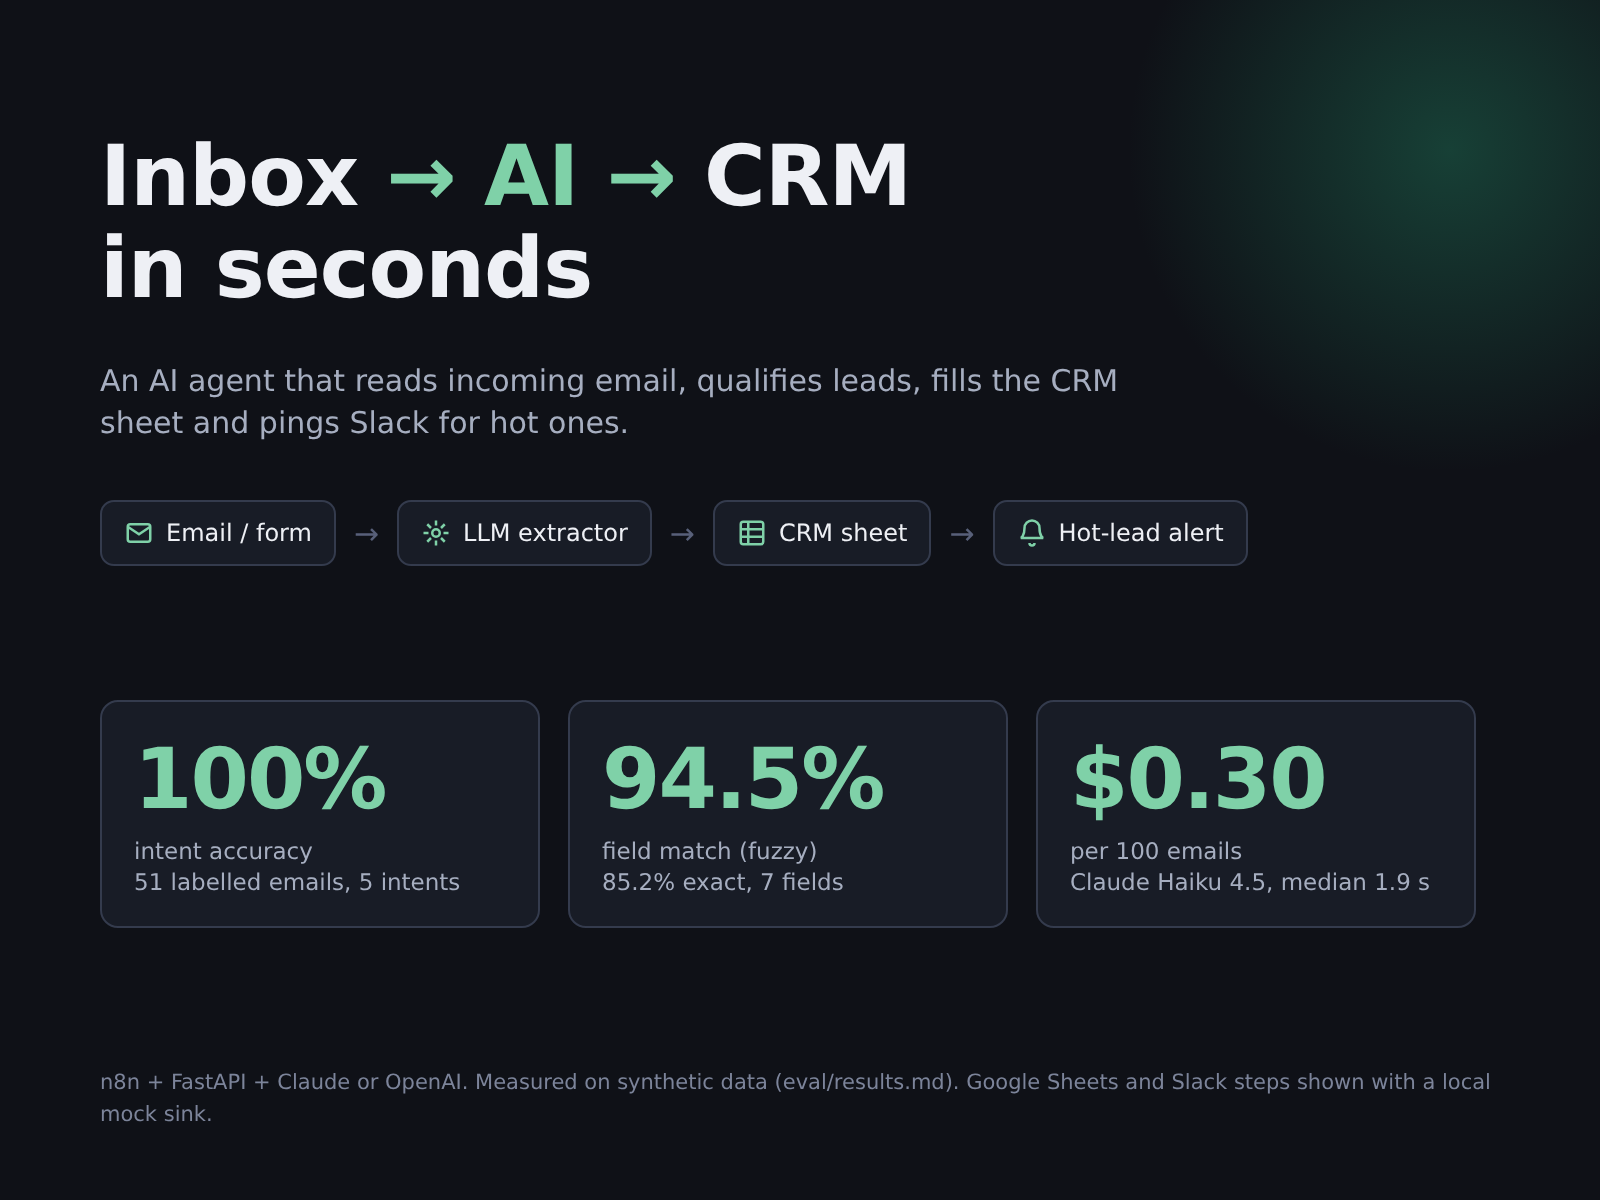
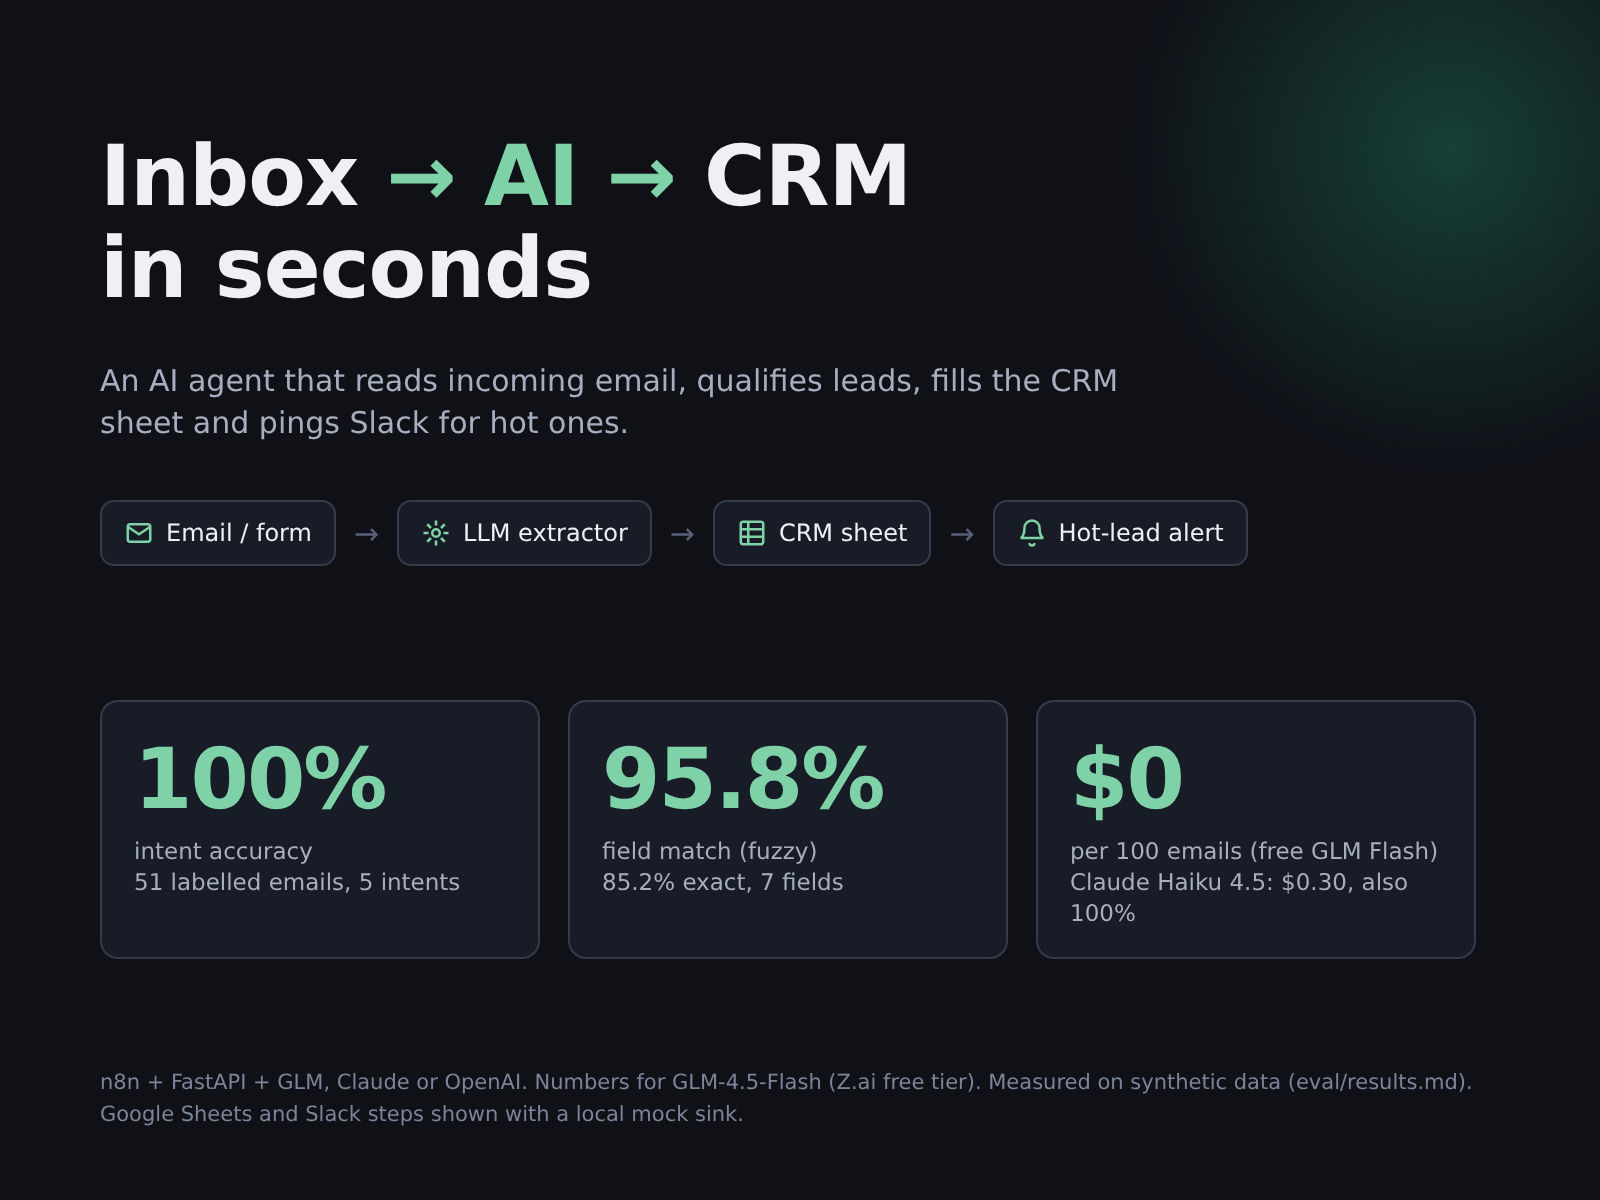
lead with free glm results in readme, cover and portfolio

diff --git a/README.md b/README.md
@@ -4,7 +4,7 @@ An AI agent that reads your inbox, qualifies leads and updates your CRM automati
 
 ![demo](assets/demo.gif)
 
-*The demo above was recorded against a **local mock sink** (a small service that stands in for Google Sheets and Slack, because no Google or Slack account was used). n8n, the extractor and the LLM calls are real. See [What was and was not run](#what-was-and-was-not-run).*
+*The demo above was recorded against a **local mock sink** (a small service that stands in for Google Sheets and Slack, because no Google or Slack account was used). n8n, the extractor and the LLM calls are real (the demo was recorded with Claude Haiku via OpenRouter, before the default switched to GLM). See [What was and was not run](#what-was-and-was-not-run).*
 
 ## The problem
 
@@ -26,19 +26,23 @@ The canvas above is the real exported workflow imported into n8n 1.123.0. The wa
 
 ## Results
 
-Measured by `eval/run_eval.py` on 51 labelled synthetic emails (`eval/labels.csv`), through the OpenRouter provider, temperature 0. Full tables and definitions: [`eval/results.md`](eval/results.md).
+Measured by `eval/run_eval.py` on 51 labelled synthetic emails (`eval/labels.csv`), temperature 0. The default model is Z.ai's free `glm-4.5-flash`. The Claude and OpenAI rows were measured the day before through OpenRouter and were not re-run. Full tables and definitions: [`eval/results.md`](eval/results.md).
 
-| Metric | `anthropic/claude-haiku-4.5` (default) | `openai/gpt-4o-mini` |
-|---|---|---|
-| Intent accuracy | 100.0% (51/51) | 98.0% (50/51) |
-| Field match, exact / fuzzy (237 labelled fields) | 85.2% / 94.5% | 83.5% / 91.6% |
-| Routed to human review | 3.9% (2 of 51) | 0.0% |
-| Median latency per email | 1.91 s | 2.43 s |
-| Cost per 100 emails | $0.296 | $0.017 |
+| Metric | `glm-4.5-flash` (default, Z.ai) | `claude-haiku-4.5` (OpenRouter) | `gpt-4o-mini` (OpenRouter) |
+|---|---|---|---|
+| Intent accuracy | 100.0% (51/51) | 100.0% (51/51) | 98.0% (50/51) |
+| Field match, exact / fuzzy (237 labelled fields) | 85.2% / 95.8% | 85.2% / 94.5% | 83.5% / 91.6% |
+| Fields filled where the label is empty (of 120) | 17 | 5 | 7 |
+| Hot-lead alerts correct (of 10) | 8 | 10 | 10 |
+| Routed to human review | 2.0% (1 of 51) | 3.9% (2 of 51) | 0.0% |
+| Median / p95 latency per email | 4.87 s / 32.87 s | 1.91 s / 2.73 s | 2.43 s / 3.07 s |
+| Cost per 100 emails | $0.00 (free tier) | $0.296 | $0.017 |
 
-Caveats, stated plainly: 51 emails is a small set (one email moves a percentage by about 2 points), the emails are synthetic and written by the same author as the labels, and latency was measured sequentially from a shared container over a proxy, so treat it as indicative. Cost is real token counts from the API times OpenRouter's listed prices. Urgency (a subjective 1-5 call) matches exactly 74.5% of the time for Haiku and is within one point 96.1% of the time; see `eval/results.md`.
+What the table says: the free GLM model matches Claude Haiku on intent and field match, but it fills in more fields that the email does not state (17 vs 5), scores urgency lower (52.9% exact vs 74.5%, so it caught 8 of 10 hot leads), and the shared free tier is slower: 7 of its calls hit rate limits ("overloaded") and waited for a retry, which is where the 33 s p95 comes from. Z.ai lists `glm-4.5-flash` as free on its [pricing page](https://docs.z.ai/guides/overview/pricing); token counts are still recorded in `eval/results.md`. If missed hot leads cost more than $0.30 per 100 emails, switch to Haiku with one env var.
 
-Reproduce: `python eval/run_eval.py --model anthropic/claude-haiku-4.5 --model openai/gpt-4o-mini` (needs `OPENROUTER_API_KEY`; results are cached in `eval/cache/`).
+Caveats, stated plainly: 51 emails is a small set (one email moves a percentage by about 2 points), the emails are synthetic and written by the same author as the labels, and latency was measured sequentially from a shared container over a proxy, so treat it as indicative.
+
+Reproduce: `python eval/run_eval.py --model zai:glm-4.5-flash --model openrouter:anthropic/claude-haiku-4.5 --model openrouter:openai/gpt-4o-mini` (needs `ZAI_API_KEY` and `OPENROUTER_API_KEY`; answers are cached in `eval/cache/`).
 
 ## Error branch
 
@@ -57,7 +61,7 @@ The `Leads` tab after a run of synthetic emails (**local mock sink**, not Google
 ## Run it
 
 ```bash
-cp .env.example .env        # set LLM_PROVIDER and the matching API key
+cp .env.example .env        # default LLM_PROVIDER=zai: set ZAI_API_KEY (free GLM Flash models)
 docker compose up --build   # n8n on :5678, extractor on :8000 (override with N8N_PORT, EXTRACTOR_PORT)
 ```
 
@@ -69,7 +73,7 @@ Then:
 
 **Credentials setup (none are stored in this repo):**
 
-- *LLM:* `LLM_PROVIDER=openrouter|openai|anthropic` plus `OPENROUTER_API_KEY`, `OPENAI_API_KEY` or `ANTHROPIC_API_KEY` in `.env`. `LLM_MODEL` overrides the default (`anthropic/claude-haiku-4.5`, `gpt-4o-mini`, `claude-haiku-4-5`).
+- *LLM:* `LLM_PROVIDER=zai|openrouter|openai|anthropic` (default `zai`) plus `ZAI_API_KEY`, `OPENROUTER_API_KEY`, `OPENAI_API_KEY` or `ANTHROPIC_API_KEY` in `.env`. `LLM_MODEL` overrides the default (`glm-4.5-flash`, `anthropic/claude-haiku-4.5`, `gpt-4o-mini`, `claude-haiku-4-5`).
 - *Google Sheets:* create a spreadsheet with tabs `Leads`, `Needs review`, `Other inbox`, `Errors`, header row matching the column names in the nodes, then add a Google Sheets credential in n8n.
 - *Slack:* add a Slack credential and set the channels `#hot-leads` and `#automation-alerts`.
 - *IMAP:* the IMAP node is shipped disabled. Add an IMAP credential and enable it to read a real mailbox.
@@ -82,7 +86,7 @@ Run the extractor without Docker: `cd extractor && pip install -r requirements.t
 
 ## What was and was not run
 
-- **Run for real:** the extractor, both LLM providers via OpenRouter, the eval, n8n 1.123.0 (installed with npm and run locally), importing `workflow.json` and `error_workflow.json`, the webhook trigger, the Switch routing, the hot-lead branch and the error workflow.
+- **Run for real:** the extractor, Z.ai GLM (`glm-4.5-flash`, eval only) and both OpenRouter models, the eval, n8n 1.123.0 (installed with npm and run locally), importing `workflow.json` and `error_workflow.json`, the webhook trigger, the Switch routing, the hot-lead branch and the error workflow.
 - **Mocked:** Google Sheets and Slack. No account for either was available, so `demo.gif`, `sheet_result.png` and `error_branch.png` show the local mock sink. The real Sheets and Slack nodes are in the exported workflow but were never executed against the real services.
 - **Not exercised:** the native Anthropic and OpenAI SDK paths (all measured runs went through OpenRouter; the code paths exist but were not run), and the IMAP trigger (shipped disabled, no mailbox).
 - **Docker:** `docker compose up --build -d` was tested later, once a Docker daemon was available: the extractor image built, the extractor reported healthy (`/health` answered, a malformed email got 422), and the n8n 1.123.0 container served its UI (`/healthz` ok, `/signup` 200); then `docker compose down`. The test found that n8n exited because the container has no IPv6, so the compose file now sets `N8N_LISTEN_ADDRESS=0.0.0.0`. Host ports can be changed with `N8N_PORT` and `EXTRACTOR_PORT`. The sandbox proxy needed its CA added to the pip step of the build, which was done with an uncommitted local override; a normal network needs nothing extra. No LLM calls were made in that test, and importing the workflows inside the compose-run n8n was not repeated (it was done with the npm-installed n8n of the same version).
@@ -92,7 +96,7 @@ Run the extractor without Docker: `cd extractor && pip install -r requirements.t
 
 - **Trigger:** swap the webhook/IMAP nodes for Gmail, Outlook, Typeform, a WhatsApp provider or any n8n trigger; only the *Normalize email* node needs to map the new payload to `{from, subject, body}`.
 - **CRM:** replace the Google Sheets nodes with HubSpot, Pipedrive, GoHighLevel or Airtable nodes. The extractor output is already a flat record.
-- **Model:** set `LLM_PROVIDER` and `LLM_MODEL`. Claude, OpenAI and anything on OpenRouter work today; a Gemini or local-model provider is one function in `extractor/llm.py`.
+- **Model:** set `LLM_PROVIDER` and `LLM_MODEL`. Z.ai GLM, Claude, OpenAI and anything on OpenRouter work today; a Gemini or local-model provider is one function in `extractor/llm.py`.
 - **Intents and fields:** edit `extractor/schema.py` and `extractor/prompts.py`, then re-run the eval.
 
 ## License

diff --git a/assets/upwork_portfolio.md b/assets/upwork_portfolio.md
@@ -5,9 +5,9 @@
 **Role:** AI automation engineer (solo demo project)
 
 **Description (about 300 chars):**
-Demo on synthetic data. Leads sit unread and get copied into the CRM by hand. n8n + FastAPI + LLM triages each email, extracts 9 fields, flags uncertain ones for review and alerts Slack on hot leads. Measured on 51 labelled emails: 100% intent accuracy, 94.5% field match, ~$0.30 per 100 emails.
+Demo on synthetic data. Leads sit unread and get copied into the CRM by hand. n8n + FastAPI + LLM triages each email, extracts 9 fields, flags uncertain ones and alerts Slack on hot leads. On 51 labelled emails: 100% intent accuracy, 95.8% field match, $0 per 100 emails (free GLM).
 
-**Skills tags:** n8n, AI Automation, API Integration, OpenAI API, Claude, FastAPI
+**Skills tags:** n8n, AI Automation, API Integration, OpenAI API, Claude, FastAPI (GLM via Z.ai also supported)
 
 **Media order:** demo.gif → cover_1600x1200.png → workflow.png → sheet_result.png
 
